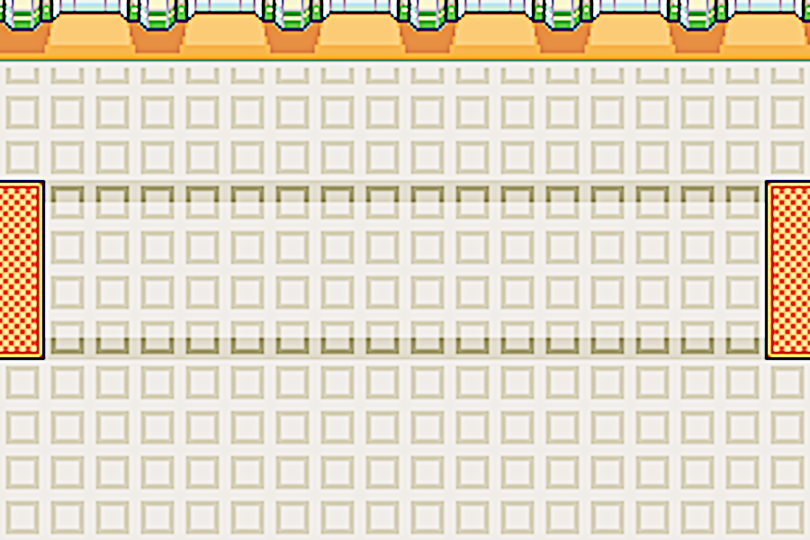
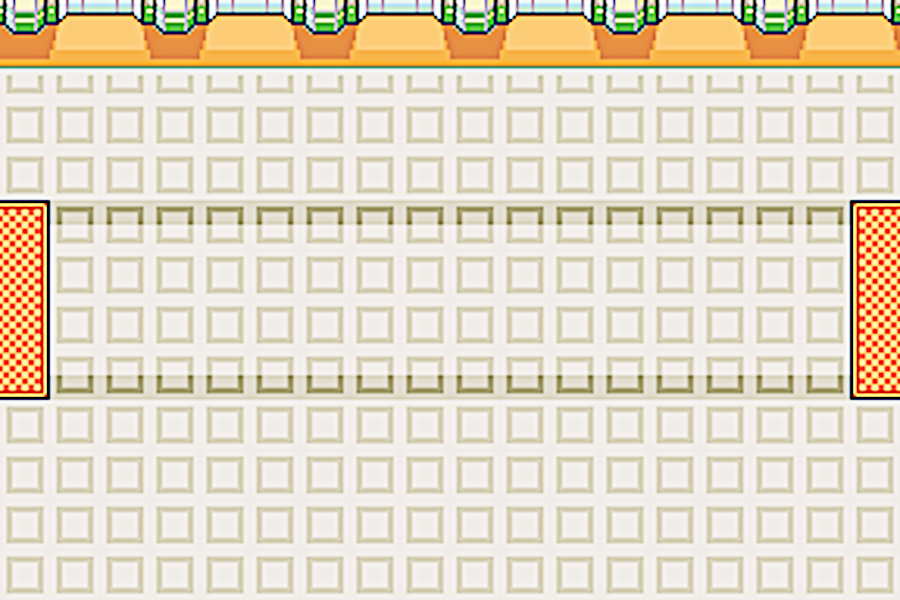
background changes

diff --git a/roundPlan.js b/roundPlan.js
@@ -182,6 +182,7 @@ roundPlan.prototype.update = function () {
             this.roundEntity(this.index * this.timeGap + this.initialRoundTime
                 , this.game, new miniCake(this.game, -50, 350, .75), true);
         } else if (round == 2) {
+            this.game.background.spritesheet = AM.getAsset("./img/background night.png");
             this.roundEntity(this.index * this.timeGap + this.initialRoundTime
                 , this.game, new cola(this.game, -50, 350, .85, false));
             this.roundEntity(this.index * this.timeGap + this.initialRoundTime
@@ -219,6 +220,7 @@ roundPlan.prototype.update = function () {
             this.roundEntity(this.index * this.timeGap + this.initialRoundTime
                 , this.game, new biscuit(this.game, -50, 350, .75));    
         } else if (round == 3) {
+            this.game.background.spritesheet = AM.getAsset("./img/background morning.png");
             this.roundEntity(this.index * this.timeGap + this.initialRoundTime
                 , this.game, new yellowTea(this.game, -50, 350, true, .75));
             this.roundEntity(this.index * this.timeGap + this.initialRoundTime
@@ -252,6 +254,7 @@ roundPlan.prototype.update = function () {
             this.roundEntity(this.index * this.timeGap + this.initialRoundTime
                 , this.game, new biscuit(this.game, -50, 350, .75), true);
         } else if (round == 4) {
+            this.game.background.spritesheet = AM.getAsset("./img/background.png");
             this.roundEntity(this.index * this.timeGap + this.initialRoundTime
                 , this.game, new redTea(this.game, -50, 350, false, .75));
             this.roundEntity(this.index * this.timeGap + this.initialRoundTime
@@ -281,6 +284,7 @@ roundPlan.prototype.update = function () {
             this.roundEntity(this.index * this.timeGap + this.initialRoundTime
                 , this.game, new cakeChoco(this.game, -50, 350, .75));
         } else if (round == 5) {
+            this.game.background.spritesheet = AM.getAsset("./img/background night.png");
             this.roundEntity(this.index * this.timeGap + this.initialRoundTime
                 , this.game, new iceGolem(this.game, -50, 350, .70));
             this.roundEntity(this.index * this.timeGap + this.initialRoundTime

diff --git a/main.js b/main.js
@@ -108,6 +108,8 @@ AM.queueDownload("./img/greenTeaFlip.png");
 AM.queueDownload("./img/yellowTea.png");
 AM.queueDownload("./img/yellowTeaFlip.png");
 AM.queueDownload("./img/background.png");
+AM.queueDownload("./img/background night.png");
+AM.queueDownload("./img/background morning.png");
 AM.queueDownload("./img/holder.png");
 AM.queueDownload("./img/tower.png");
 AM.queueDownload("./img/towerG.png");
